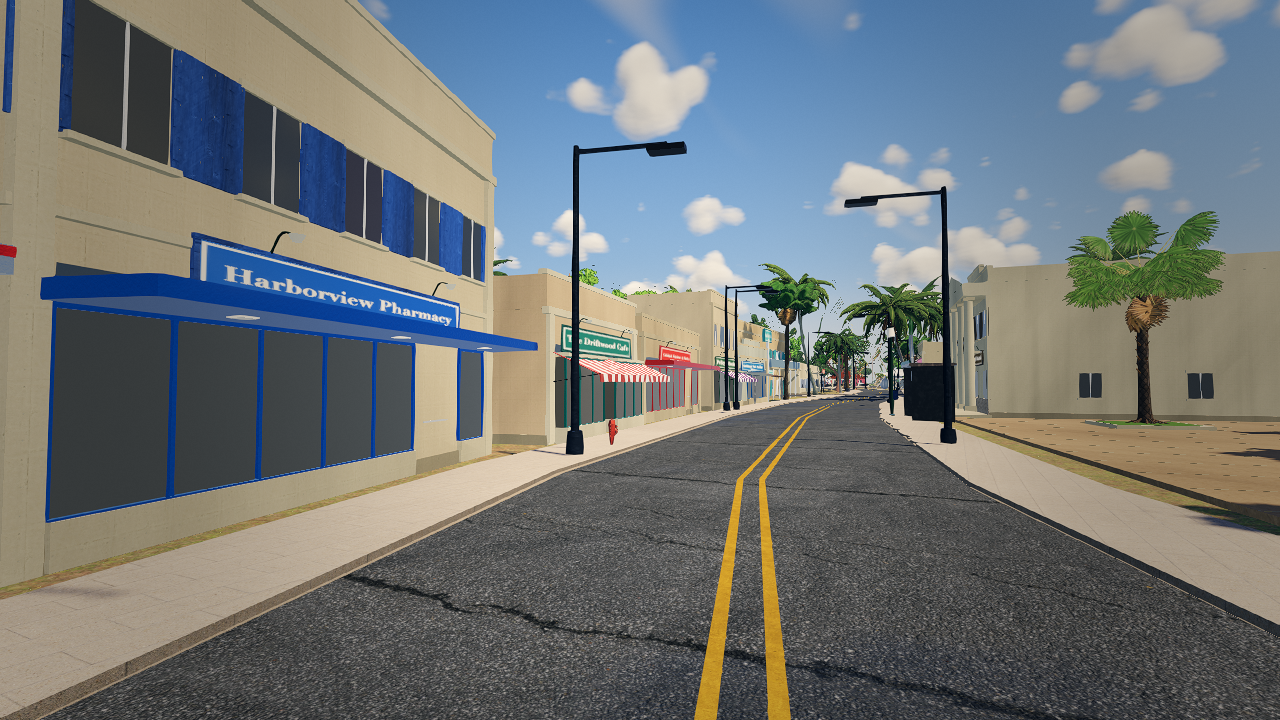
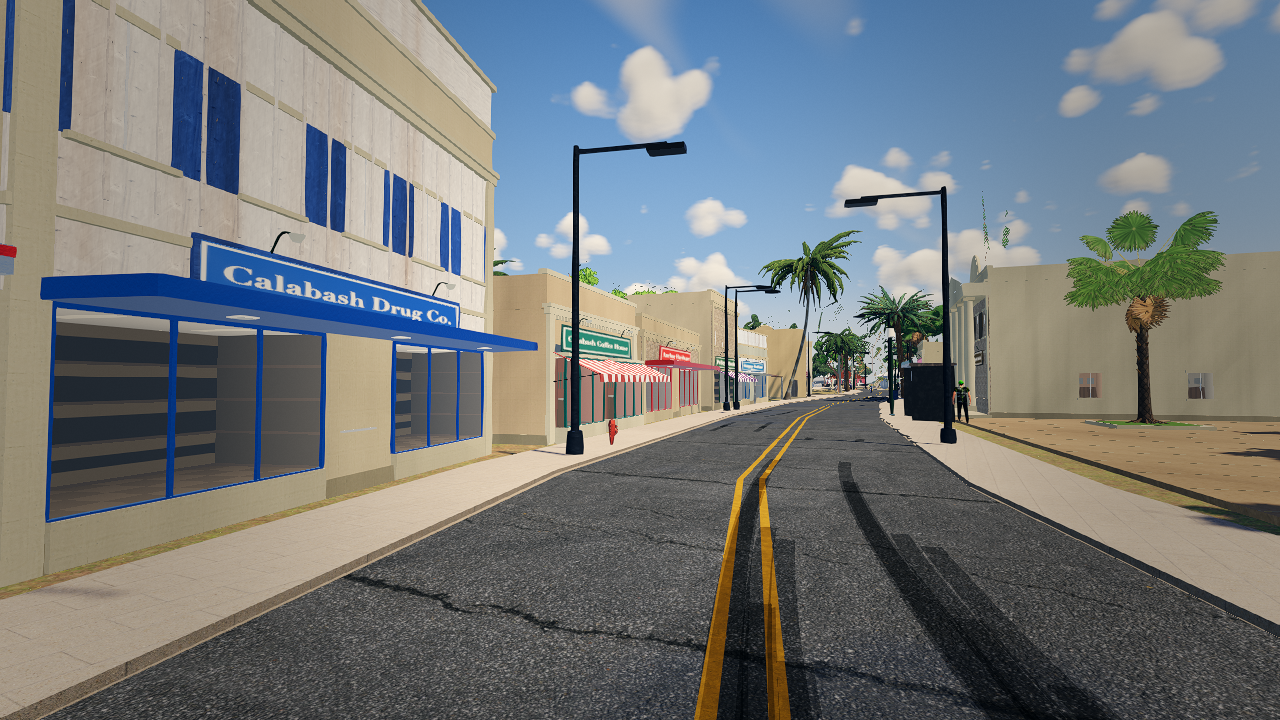
V2.1 towns pass 2: shop windows with interior rooms, rule-based facade variety, street trees in grates, boutique quarter with green, town kit on every fictional-land town (re-lays on new grids)

diff --git a/src/world/setpieces/towns/towns.js b/src/world/setpieces/towns/towns.js
@@ -13,7 +13,7 @@ import { buildShop, KINDS, BODY, hex, signAtlas } from './shops.js';
 
 const RANK = { trunk: 5, primary: 5, secondary: 4, tertiary: 3, unclassified: 2, residential: 2, living_street: 1 };
 const PROGRAM = ['cafe', 'pharmacy', 'hardware', 'bakery', 'diner', 'bank', 'books', 'barber', 'bait', 'florist', 'seafood', 'realty', 'icecream', 'laundry', 'motel', 'church', 'school', 'marina'];
-const WIDTH = { cafe: [8, 10], pharmacy: [11, 13], hardware: [12, 15], bakery: [7, 8.5], diner: [11, 13], bank: [10, 12], books: [7, 8.5], barber: [6, 7], bait: [8, 9.5], florist: [6, 7], seafood: [9, 11], realty: [7, 8], icecream: [6, 7], laundry: [9, 10], motel: [20, 26], church: [10, 11], school: [24, 30], marina: [9, 10] };
+const WIDTH = { boutique: [7, 8.5], gallery: [8, 10], wine: [6.5, 8], jeweler: [6, 7], salon: [6, 7.5], deli: [7.5, 9], toys: [7, 8.5], cafe: [8, 10], pharmacy: [11, 13], hardware: [12, 15], bakery: [7, 8.5], diner: [11, 13], bank: [10, 12], books: [7, 8.5], barber: [6, 7], bait: [8, 9.5], florist: [6, 7], seafood: [9, 11], realty: [7, 8], icecream: [6, 7], laundry: [9, 10], motel: [20, 26], church: [10, 11], school: [24, 30], marina: [9, 10] };
 const DEPTH = { motel: 9, church: 16, school: 14, hardware: 16, diner: 12 };
 const NAME = {
   cafe: ['%T Coffee House', 'Morning Tide Cafe', 'The Driftwood Cafe'], pharmacy: ['%T Drug Co.', 'Harborview Pharmacy'], hardware: ['%T Hardware & Marine', 'Anchor Hardware'],
@@ -21,6 +21,7 @@ const NAME = {
   barber: ['Sharp Tide Barber', 'Old Salt Barber'], bait: ['%T Bait & Tackle', 'Reel Deal Bait'], florist: ['Hibiscus Florist', 'Bloom & Brine'], seafood: ['%T Fish Market', 'Snapper Seafood'],
   realty: ['Seabreeze Realty', '%T Island Realty'], icecream: ['Scoops by the Sea', 'Coconut Creamery'], laundry: ['Suds & Sun Laundry', 'Island Wash'], motel: ['%T Motor Inn', 'Sand Dollar Motel'],
   church: ['%T Chapel', 'Harbor Community Church'], school: ['%T Elementary', '%T Academy'], marina: ['%T Marina Office', 'Harbor Master'],
+  boutique: ['Linen & Salt', 'The Tidal Closet', 'Mangrove Mercantile'], gallery: ['Driftline Gallery', 'Tern Art House'], wine: ['Vine & Brine Cellars', 'Corkscrew Wine Shop'], jeweler: ['Sea Glass Jewelers', 'Pearl & Compass'], salon: ['Saltwater Salon', 'Breeze Hair Studio'], deli: ['Market Street Deli', 'Gulfside Provisions'], toys: ['Sandcastle Toys', 'Kite & Pail'],
 };
 
 export function planTown(town, env) {
@@ -80,46 +81,82 @@ export function planTown(town, env) {
     add(q); add({ x: f.x + nx * (f.hw + sideW * 0.55), z: f.z + nz * (f.hw + sideW * 0.55), ry: q.ry, hw: w / 2, hd: sideW * 0.3, kind: 'awning' });
     return { ...q, w, d, side, f };
   };
-  const MAXS = Math.min(20, seq.length + 4), usedNames = new Set();
-  for (const f of frontage) { if (out.shops.length >= MAXS) break;
-    for (const side of [1, -1]) { const kind = seq[pi % seq.length]; if ((used.has(kind) && pi < seq.length) || (pi >= seq.length && /motel|church|school|marina|bank/.test(kind))) { pi++; continue; }
-      const sh = tryShop(f, side, kind); if (!sh) continue; used.add(kind); pi++;
-      const P = KINDS[kind].palette, k2 = out.shops.length;
-      sh.seed = (Math.round(sh.x * 31 + sh.z * 17) >>> 0) || 1;
-      sh.colors = { body: hex(BODY[(k2 * 7 + 3) % BODY.length]), trim: [0xfaf6ee, 0xf2ede2, 0xe6dccb, 0xfdfaf2][k2 % 4], accent: hex(P[k2 % P.length]), awn: hex(P[(k2 + 1) % P.length]), interior: [0xf0d8a8, 0xe8e0c8, 0xf4e4c0, 0xd8e4e8][k2 % 4] };
-      sh.stories = KINDS[kind].stories[(k2 + (sh.seed & 1)) % KINDS[kind].stories.length];
-      { const names = NAME[kind].map((n) => n.replace('%T', town.short || town.name.split(' ').pop())); sh.name = names.find((n, j) => !usedNames.has(n) && j >= ((sh.seed >>> 3) % names.length)) || names.find((n) => !usedNames.has(n)); if (!sh.name) { out.shops.pop(); continue; } usedNames.add(sh.name); }
-      sh.lit = 0.28 + r() * 0.2; sh.shutters = r() < 0.5; sh.balcony = sh.stories > 1 && r() < 0.4; sh.y = groundAt(sh.x, sh.z);
-      out.shops.push(sh); } }
-  // reserve the shop and plaza footprints for the house generator (map houses under them are not built)
+  // ---- shop rows: main street first (anchors), then the side streets; the quarter street gets the boutiques ----
+  const usedNames = new Set(), short = town.short || town.name.split(' ').pop();
+  const FACADES = ['stucco', 'brick', 'stucco', 'batten', 'stone'], CORN = ['stepped', 'dentil', 'arched', 'stepped', 'dentil'];
+  const lastOnSide = new Map();
+  const finishShop = (sh, kind, quarter) => {
+    const P = KINDS[kind].palette, k2 = out.shops.length;
+    sh.seed = (Math.round(sh.x * 31 + sh.z * 17) >>> 0) || 1;
+    sh.colors = { body: hex(BODY[(k2 * 7 + 3) % BODY.length]), trim: [0xfaf6ee, 0xf2ede2, 0xe6dccb, 0xfdfaf2, 0x2a2a2a][quarter && k2 % 3 === 0 ? 4 : k2 % 4], accent: hex(P[k2 % P.length]), awn: hex(P[(k2 + 1) % P.length]), interior: [0xc8a070, 0xa8b0a8, 0xd0b088, 0x8ea4b4, 0xc08e78, 0xb8a890][(k2 * 3 + (kind.length)) % 6] };   // mid-tone room walls (the glass shows them)
+    sh.stories = KINDS[kind].stories[(k2 + (sh.seed & 1)) % KINDS[kind].stories.length];
+    const names = NAME[kind].map((n) => n.replace('%T', short)), tOff = Math.abs(Math.round(cx + cz)) % 7; sh.name = names.find((n, j) => !usedNames.has(n) && j >= ((tOff + k2) % names.length)) || names.find((n) => !usedNames.has(n)); if (!sh.name) return false; usedNames.add(sh.name);
+    // facade by rule: working shops on the water get board and batten with a false front, the bank stone, the quarter
+    // brick and stone, the rest stucco; a building never shares facade and cornice with its neighbor on the same side
+    let fac = /bait|seafood|marina/.test(kind) ? 'batten' : kind === 'bank' ? 'stone' : quarter ? (k2 % 2 ? 'brick' : 'stucco') : FACADES[(sh.seed >>> 5) % FACADES.length];
+    const sideKey = (sh.f.e?.id ?? 0) + ':' + sh.side, prev = lastOnSide.get(sideKey);
+    if (prev && prev.facade === fac && !/bait|seafood|marina|bank/.test(kind)) fac = FACADES[(FACADES.indexOf(fac) + 1) % FACADES.length];
+    sh.facade = fac; sh.paintedBrick = fac === 'brick' && (sh.seed & 4) !== 0 && !quarter;
+    sh.cornice = fac === 'batten' ? 'false' : CORN[(sh.seed >>> 7) % CORN.length]; if (prev && prev.cornice === sh.cornice && sh.cornice !== 'false') sh.cornice = CORN[(CORN.indexOf(sh.cornice) + 1) % CORN.length];
+    sh.stoneBase = quarter || (fac === 'stucco' && (sh.seed & 8) !== 0);
+    sh.lit = 0.35 + r() * 0.3; sh.shutters = r() < 0.5; sh.balcony = sh.stories > 1 && r() < (quarter ? 0.7 : 0.35); sh.y = groundAt(sh.x, sh.z); sh.quarter = !!quarter;
+    lastOnSide.set(sideKey, sh); out.shops.push(sh); return true;
+  };
+  const placeRow = (list, program, max, quarter) => { let n = 0, pj = 0; const usedK = new Set();
+    for (const f of list) { if (n >= max || pj >= program.length * 2) break;
+      for (const side of [1, -1]) { if (n >= max) break; const kind = program[pj % program.length]; if (usedK.has(kind) && pj < program.length) { pj++; continue; }
+        const sh = tryShop(f, side, kind); if (!sh) continue; pj++; usedK.add(kind); if (finishShop(sh, kind, quarter)) n++; } } return n; };
+  placeRow(frontage, seq.filter((k) => k !== 'marina' || town.coast !== false), Math.min(16, Math.round(R / 14)), false);
+  // side streets: the cross streets at the main-street junctions, first 80 m from the junction
+  const sides = [];
+  for (const n of nodes) { if (Math.hypot(n.x - cx, n.z - cz) > R * 0.85) continue;
+    for (const k of n.edges || []) { const e = rg.edges[k]; if (!e || main.edges.includes(e) || e.bridge || /service|footway|path|track/.test(e.kind || '')) continue;
+      const atA = e.a === n.id, pts = atA ? e.pts : e.pts.slice().reverse(), list = []; let acc = 0; const hw = (e.width || 7) / 2;
+      for (let i = 0; i < pts.length - 1 && acc < 80; i++) { const a = pts[i], b = pts[i + 1], L = Math.hypot(b[0] - a[0], b[1] - a[1]); if (L < 1) continue; const tx = (b[0] - a[0]) / L, tz = (b[1] - a[1]) / L; for (let t = 0; t < L && acc < 80; t += 2, acc += 2) list.push({ x: a[0] + tx * t, z: a[1] + tz * t, tx, tz, hw, e }); }
+      if (list.length > 8) sides.push({ e, node: n, list, d: Math.hypot(n.x - (out.plaza?.x ?? cx), n.z - (out.plaza?.z ?? cz)) }); } }
+  sides.sort((a, b) => a.d - b.d);
+  const QUARTER = ['boutique', 'cafe', 'gallery', 'wine', 'jeweler', 'deli', 'salon', 'toys', 'florist', 'books'];
+  if (sides[0]) { out.quarter = { edge: sides[0].e.id, name: sides[0].e.name || null }; placeRow(sides[0].list.slice(5), QUARTER, 8, true); }
+  for (const sd of sides.slice(1, 4)) placeRow(sd.list.slice(5), ['realty', 'laundry', 'barber', 'salon', 'deli', 'toys', 'icecream'], 2, false);
+  // a small green on the quarter street: lawn, one shade tree, benches, low hedge
+  if (sides[0]) for (const f of sides[0].list.slice(12)) { if (out.green) break; for (const side of [1, -1]) { const nx = -f.tz * side, nz = f.tx * side, o = f.hw + sideW + 0.4 + 8; const q = { x: f.x + nx * o, z: f.z + nz * o, ry: Math.atan2(-nx, -nz), hw: 8, hd: 8, kind: 'green' }; if (!free(q)) continue; out.green = add(q); break; } }
+  // reserve the shop, plaza and green footprints for the house generator (map houses under them are not built)
   for (const q of placed) if (q.kind !== 'awning') out.reserved.push(q);
   // ---- furniture (rules: lamps every 24 m at the curb alternating sides; benches + bins at shop entries; planters between) ----
+  const rows = [frontage, ...sides.slice(0, 4).map((x) => x.list)];
   let lampS = 0;
-  for (const f of frontage) for (const side of [1, -1]) {
+  for (const list of rows) for (const f of list) for (const side of [1, -1]) {
     const nx = -f.tz * side, nz = f.tx * side, ry = Math.atan2(f.tx, f.tz);
     if (nearJunction(f.x, f.z, f.hw + 5)) continue;
     const key = Math.round((f.x * f.tx + f.z * f.tz) / 2);
     if ((key % 12 === 0) && (((key / 12) | 0) % 2 === (side > 0 ? 0 : 1))) { const q = { x: f.x + nx * (f.hw + 0.55), z: f.z + nz * (f.hw + 0.55), ry, hw: 0.3, hd: 0.3, kind: 'lamp' }; if (free(q, { roadPad: 0.1 })) { add(q); out.furniture.push({ ...q, y: groundAt(q.x, q.z) }); lampS++; } }
   }
   for (const sh of out.shops) { if (/church|school|motel/.test(sh.kind)) continue; const f = sh.f, nx = -f.tz * sh.side, nz = f.tx * sh.side, tx = f.tx, tz = f.tz;
-    const pos = (u, o) => ({ x: f.x + nx * (f.hw + o) + tx * u + (sh.x - f.x - nx * (sh.x - f.x) * 0) * 0, z: f.z + nz * (f.hw + o) + tz * u });
     const at = (u, o) => { const base = { x: sh.x - nx * (sh.d / 2 + 0.3 + sideW + 0.15), z: sh.z - nz * (sh.d / 2 + 0.3 + sideW + 0.15) }; return { x: base.x + tx * u + nx * o, z: base.z + tz * u + nz * o }; };
-    void pos;
-    // bench (facing the street) and bin beside it near the curb
     const sideU = (sh.seed & 2 ? 1 : -1) * (sh.w / 2 - 1.2), b = at(sideU, 1.3), bq = { ...b, ry: Math.atan2(-nx, -nz) + Math.PI, hw: 0.85, hd: 0.35, kind: 'bench' };
     if (free(bq, { roadPad: 0.6 })) { add(bq); out.furniture.push({ ...bq, y: groundAt(bq.x, bq.z) }); const bn = at(sideU + 1.25, 1.0), nq = { ...bn, ry: bq.ry, hw: 0.3, hd: 0.3, kind: 'bin' }; if (free(nq, { roadPad: 0.5 })) { add(nq); out.furniture.push({ ...nq, y: groundAt(nq.x, nq.z) }); } }
-    // planter with a shrub at the far end of the frontage
     const p = at(-sideU, 0.9), pq = { ...p, ry: bq.ry, hw: 0.6, hd: 0.6, kind: 'planter' }; if (free(pq, { roadPad: 0.5 })) { add(pq); out.furniture.push({ ...pq, y: groundAt(pq.x, pq.z) }); }
-    // cafe / bakery / icecream: two bistro tables with umbrellas on the sidewalk
-    if (/cafe|bakery|icecream|diner/.test(sh.kind)) for (const u of [-sh.w * 0.25, sh.w * 0.25]) { const t = at(u, sideW * 0.42), tq = { ...t, ry: 0, hw: 0.8, hd: 0.8, kind: 'bistro' }; if (free(tq, { roadPad: 0.6 })) { add(tq); out.furniture.push({ ...tq, y: groundAt(tq.x, tq.z), color: sh.colors.awn }); } }
+    if (/cafe|bakery|icecream|diner|deli|wine/.test(sh.kind)) for (const u of [-sh.w * 0.25, sh.w * 0.25]) { const t = at(u, sideW * 0.42), tq = { ...t, ry: 0, hw: 0.8, hd: 0.8, kind: 'bistro' }; if (free(tq, { roadPad: 0.6 })) { add(tq); out.furniture.push({ ...tq, y: groundAt(tq.x, tq.z), color: sh.colors.awn }); } }
   }
+  // ---- street trees in grates: every 12 m at the curb, never under an awning reach, 5 m from lamps, clear of junctions ----
+  const lampsXZ = out.furniture.filter((f) => f.kind === 'lamp');
+  for (const list of rows) { const quarterRow = list === sides[0]?.list;
+    for (const f of list) for (const side of [1, -1]) { const key = Math.round((f.x * f.tx + f.z * f.tz) / 2); if (key % 6 !== 3) continue; if (nearJunction(f.x, f.z, f.hw + 7)) continue;
+      const nx = -f.tz * side, nz = f.tx * side, x = f.x + nx * (f.hw + 0.95), z = f.z + nz * (f.hw + 0.95);
+      if (lampsXZ.some((l) => Math.hypot(l.x - x, l.z - z) < 5)) continue;
+      const q = { x, z, ry: Math.atan2(f.tx, f.tz), hw: 0.7, hd: 0.7, kind: 'grate' }; if (!free(q, { roadPad: 0.15 })) continue;
+      // crown clearance: no shop facade within 2.2 m of the trunk
+      if (out.shops.some((sh) => { const dx = x - sh.x, dz = z - sh.z, c = Math.cos(sh.ry), sn = Math.sin(sh.ry), u = Math.abs(dx * c - dz * sn), v = Math.abs(dx * sn + dz * c); return u < sh.w / 2 + 2.2 && v < sh.d / 2 + 2.2; })) continue;
+      add(q); const y = groundAt(x, z); out.furniture.push({ ...q, y });
+      out.trees.push({ kind: quarterRow ? 'gumbo' : (key / 6 | 0) % 2 ? 'sabal' : 'queen', x, z, y: y + 0.1, s: quarterRow ? 0.55 : 0.75, small: false }); } }
   // plaza furniture: fountain in the middle, four shade trees, benches around, cafe tables on the street side
   if (out.plaza) { const P = out.plaza, c = Math.cos(P.ry), sn = Math.sin(P.ry), at = (u, v) => ({ x: P.x + c * u + sn * v, z: P.z - sn * u + c * v });
     out.plazaY = groundAt(P.x, P.z);
     for (const [u, v] of [[-8.5, -7.5], [8.5, -7.5], [-8.5, 6.5], [8.5, 6.5]]) { const t = at(u, v); out.trees.push({ kind: (u > 0) === (v > 0) ? 'royal' : 'sabal', x: t.x, z: t.z, y: out.plazaY + 0.25, s: 0.9 }); }   // narrow crowns: clear of the shops and the fountain
     for (const [u, v, a] of [[0, -6.5, 0], [0, 6.0, Math.PI], [-6.5, 0, Math.PI / 2], [6.5, 0, -Math.PI / 2]]) { const t = at(u, v); out.furniture.push({ ...t, ry: P.ry + a, kind: 'bench', y: out.plazaY }); }
   }
-  out.counts = { shops: out.shops.length, lamps: lampS, furniture: out.furniture.length, crossings: out.crossings.length, walks: out.walks.length };
+  if (out.green) { const G = out.green, c = Math.cos(G.ry), sn = Math.sin(G.ry), at = (u, v) => ({ x: G.x + c * u + sn * v, z: G.z - sn * u + c * v }); out.greenY = groundAt(G.x, G.z); out.trees.push({ kind: 'gumbo', ...at(0, 0), y: out.greenY + 0.1, s: 0.8 }); for (const [u, v, a] of [[0, -4.5, 0], [0, 4.5, Math.PI], [-4.5, 0, Math.PI / 2], [4.5, 0, -Math.PI / 2]]) out.furniture.push({ ...at(u, v), ry: G.ry + a, kind: 'bench', y: out.greenY }); }
+  out.counts = { shops: out.shops.length, quarter: out.shops.filter((x) => x.quarter).length, lamps: lampS, trees: out.trees.length, furniture: out.furniture.length, crossings: out.crossings.length, walks: out.walks.length, green: !!out.green, sides: sides.length };
   return out;
 }
 
@@ -140,7 +177,8 @@ export function buildStreetscape(hk, plan, ox, oz, lod = 0) {
       cols.push({ shape: 'cyl', p: [x, y + 2.3, z], r: 0.1, hh: 2.3 }); lamps.push({ pos: [x, y + 4.4, z], color: 0xffd9a8, intensity: 30, range: 12 }); }
     else if (f.kind === 'bench') { for (const lx of [-0.75, 0.75]) B.box(MET, 0.06, 0.45, 0.5, m(lx, 0.22, 0), { color: 0x1e2a22 }); for (let k = 0; k < 4; k++) B.box(WOOD, 1.7, 0.035, 0.09, m(0, 0.45, -0.18 + k * 0.11), { color: 0x9a6a3a, wear: 0.3 }); for (let k = 0; k < 3; k++) B.box(WOOD, 1.7, 0.09, 0.035, m(0, 0.62 + k * 0.12, -0.26, -0.15), { color: 0x9a6a3a, wear: 0.3 }); cols.push({ shape: 'box', p: [x, y + 0.4, z], h: [0.85, 0.4, 0.3], ry: f.ry }); }
     else if (f.kind === 'bin') { B.cyl(MET, 0.26, 0.24, 0.85, m(0, 0.43, 0), { seg: L0 ? 14 : 8, color: 0x1e3a2a }); if (L0) for (let k = 0; k < 10; k++) B.box(MET, 0.03, 0.75, 0.02, m(Math.cos(k * 0.63) * 0.265, 0.43, Math.sin(k * 0.63) * 0.265, 0, -k * 0.63), { color: 0x1e3a2a }); B.cyl(MET, 0.28, 0.28, 0.05, m(0, 0.87, 0), { seg: 10, color: 0x1a2a20 }); cols.push({ shape: 'cyl', p: [x, y + 0.45, z], r: 0.27, hh: 0.45 }); }
-    else if (f.kind === 'planter') { B.box(STU, 1.2, 0.6, 1.2, m(0, 0.3, 0), { color: 0xe8e0d0, wear: 0.3 }); B.box(STU, 1.32, 0.06, 1.32, m(0, 0.62, 0), { color: 0xd8d0c0 }); B.box(mat.matte(), 1.05, 0.04, 1.05, m(0, 0.6, 0), { color: 0x3a2a1c }); cols.push({ shape: 'box', p: [x, y + 0.3, z], h: [0.6, 0.3, 0.6], ry: f.ry }); plan.trees.push({ kind: ['ixora', 'croton', 'hibiscus'][Math.abs(Math.round(f.x + f.z)) % 3], x: f.x, z: f.z, y: y + 0.6, s: 0.55, small: true }); }
+    else if (f.kind === 'planter') { B.box(STU, 1.2, 0.6, 1.2, m(0, 0.3, 0), { color: 0xe8e0d0, wear: 0.3 }); B.box(STU, 1.32, 0.06, 1.32, m(0, 0.62, 0), { color: 0xd8d0c0 }); B.box(mat.matte(), 1.05, 0.04, 1.05, m(0, 0.6, 0), { color: 0x3a2a1c }); cols.push({ shape: 'box', p: [x, y + 0.3, z], h: [0.6, 0.3, 0.6], ry: f.ry }); if (L0) plan.trees.push({ kind: ['ixora', 'croton', 'hibiscus'][Math.abs(Math.round(f.x + f.z)) % 3], x: f.x, z: f.z, y: y + 0.6, s: 0.55, small: true }); }
+    else if (f.kind === 'grate') { B.box(MET, 1.3, 0.04, 1.3, m(0, 0.13, 0), { color: 0x2a2a28 }); if (L0) for (let k = -2; k <= 2; k++) { B.box(MET, 1.3, 0.05, 0.04, m(0, 0.14, k * 0.22), { color: 0x1a1a18 }); B.box(MET, 0.04, 0.05, 1.3, m(k * 0.22, 0.14, 0), { color: 0x1a1a18 }); } B.box(mat.matte(), 1.2, 0.02, 1.2, m(0, 0.12, 0), { color: 0x3a2a1c }); cols.push({ shape: 'cyl', p: [x, y + 1.5, z], r: 0.3, hh: 1.5 }); }
     else if (f.kind === 'bistro') { B.cyl(MET, 0.35, 0.35, 0.03, m(0, 0.74, 0), { seg: 14, color: 0xe8e8e4 }); B.cyl(MET, 0.03, 0.03, 2.3, m(0, 1.15, 0), { seg: 6, color: 0xd8d8d8 }); B.cyl(PLAST, 0.02, 1.1, 0.35, m(0, 2.25, 0), { seg: 8, color: f.color ?? 0x2f6b5a });
       for (const a of [0.4, 2.5, 4.4]) { const cx2 = Math.cos(a) * 0.62, cz2 = Math.sin(a) * 0.62; B.box(MET, 0.4, 0.03, 0.4, m(cx2, 0.45, cz2, 0, -a), { color: 0x2a2a2a }); B.box(MET, 0.4, 0.4, 0.03, m(cx2 + Math.cos(a) * 0.2, 0.65, cz2 + Math.sin(a) * 0.2, 0, -a + Math.PI / 2), { color: 0x2a2a2a }); } cols.push({ shape: 'cyl', p: [x, y + 0.4, z], r: 0.4, hh: 0.4 }); }
   }
@@ -154,6 +192,11 @@ export function buildStreetscape(hk, plan, ox, oz, lod = 0) {
     if (L0) for (let k = 0; k < 12; k++) { const a = k * 0.5236; B.cyl(WATER, 0.03, 0.06, 0.55, M(x, y, z, 0, Pz.ry).multiply(M(Math.cos(a) * 1.25, 1.75, Math.sin(a) * 1.25, Math.sin(a) * 0.5, 0, -Math.cos(a) * 0.5)), { seg: 5, color: 0xd8f0f4 }); }
     cols.push({ shape: 'cyl', p: [x, y + 0.5, z], r: 3.3, hh: 0.5 });
     for (const t of plan.trees) if (!t.small) { const [tx, tz] = P(t.x, t.z); cols.push({ shape: 'cyl', p: [tx, y + 1.5, tz], r: 0.35, hh: 1.5 }); }
+  }
+  // the quarter's small green: lawn, clipped hedge border with gaps, paths crossing
+  if (plan.green) { const Gq = plan.green, [x, z] = P(Gq.x, Gq.z), y = plan.greenY ?? 0, m = (lx, ly, lz) => M(x, y, z, 0, Gq.ry).multiply(M(lx, ly, lz));
+    B.box(mat.matte(), 15.6, 0.08, 15.6, m(0, 0.03, 0), { color: 0x5a8a3a }); B.box(PAV, 1.6, 0.1, 15.6, m(0, 0.04, 0), { color: 0xe2d6c0 }); B.box(PAV, 15.6, 0.1, 1.6, m(0, 0.04, 0), { color: 0xe2d6c0 });
+    for (const [u, v, sx, sz] of [[-4.6, -7.6, 6, 0.6], [4.6, -7.6, 6, 0.6], [-4.6, 7.6, 6, 0.6], [4.6, 7.6, 6, 0.6], [-7.6, -4.6, 0.6, 6], [-7.6, 4.6, 0.6, 6], [7.6, -4.6, 0.6, 6], [7.6, 4.6, 0.6, 6]]) { if (L0) for (let t = -0.5; t <= 0.5; t += 1 / Math.max(1, Math.round(Math.max(sx, sz) / 1.2))) { const lu = u + (sx > 1 ? t * sx : 0), lv = v + (sz > 1 ? t * sz : 0); plan.trees.push({ kind: 'hedge', x: Gq.x + Math.cos(Gq.ry) * lu + Math.sin(Gq.ry) * lv, z: Gq.z - Math.sin(Gq.ry) * lu + Math.cos(Gq.ry) * lv, y: y + 0.05, s: 0.6, small: true }); } cols.push({ shape: 'box', p: [x + Math.cos(Gq.ry) * u + Math.sin(Gq.ry) * v, y + 0.4, z - Math.sin(Gq.ry) * u + Math.cos(Gq.ry) * v], h: [sx / 2, 0.4, sz / 2], ry: Gq.ry }); }
   }
   return { batch: B, colliders: cols, lamps };
 }

diff --git a/src/world/setpieces/towns/shops.js b/src/world/setpieces/towns/shops.js
@@ -24,7 +24,16 @@ export const KINDS = {
   motel: { awn: 'none', front: 'motel', stories: [2], palette: ['#2f8f8a', '#e07a2a'] },
   school: { awn: 'none', front: 'school', stories: [1], palette: ['#b85a38'] },
   marina: { awn: 'tin', front: 'shack', stories: [1], palette: ['#2a5a8a'] },
+  boutique: { awn: 'flat', front: 'bay', stories: [2], palette: ['#1e1e1e', '#6a2a3a', '#2a4a3a'] },
+  gallery: { awn: 'none', front: 'wide', stories: [1, 2], palette: ['#2a2a2a', '#f2efe6'] },
+  wine: { awn: 'striped', front: 'narrow', stories: [2], palette: ['#5a1e2a', '#2a3a2a'] },
+  jeweler: { awn: 'flat', front: 'narrow', stories: [2], palette: ['#1e2e3e', '#7a6a3a'] },
+  salon: { awn: 'striped', front: 'narrow', stories: [1, 2], palette: ['#d28aa0', '#2a6a6a'] },
+  deli: { awn: 'striped', front: 'bay', stories: [1], palette: ['#2a5a2a', '#b84a2a'] },
+  toys: { awn: 'striped', front: 'bay', stories: [1], palette: ['#e0a020', '#2a7ac8'] },
 };
+// room behind the shop glass (interior mapping kind, see houses/materials.js shopGlass)
+const ROOM = { hardware: 1, pharmacy: 1, books: 1, bait: 1, seafood: 1, wine: 1, toys: 1, cafe: 2, bakery: 2, icecream: 2, deli: 2, diner: 5, bank: 4, realty: 4, gallery: 0, florist: 3, boutique: 3, jeweler: 3, salon: 0, barber: 0, laundry: 0, motel: 0, school: 0, marina: 1 };
 const BODY = ['#efe4cf', '#f3e6d6', '#e7d3b5', '#f2dcc8', '#dfe6dc', '#f4efe2', '#e9d8c4', '#d8e2e6', '#f0d9c0', '#e6e0d0', '#f5e9d9'];
 const hex = (s) => parseInt(s.slice(1), 16);
 
@@ -37,19 +46,35 @@ export function buildShop(hk, s, lod = 0) {
   const body = s.colors.body, trim = s.colors.trim, acc = s.colors.accent, awnC = s.colors.awn;
   const box = (m, sx, sy, sz, x, y, z, o = {}, ry = 0, rx = 0, rz = 0) => B.box(m, sx, sy, sz, M(x, y, z, rx, ry, rz), o);
   const vary = (c, a = 0.04) => kit.vary(c, r, a);
-  const front = K.front;
+  const front = K.front, SG = mat.shopGlass(), room = ROOM[s.kind] ?? 0, rw = (lit) => room + Math.min(0.98, Math.max(0, lit));
+  // facade material by rule (set by the town: quarter, kind, neighbors): stucco, painted brick or raw brick, board and batten, stone
+  const FAC = s.facade === 'brick' ? mat.brick() : s.facade === 'batten' ? PAINT : s.facade === 'stone' ? mat.stoneVeneer() : STU;
+  const facC = s.facade === 'brick' ? (s.paintedBrick ? body : 0xffffff) : s.facade === 'stone' ? 0xf0e8d8 : body;
 
   // ---------- shell ----------
   if (front === 'church') return church();
   box(STU, w, h, d, 0, h / 2, 0, { color: body, wear: [wear + 0.25, wear] });
+  // facade skin on the street face above the storefront (the ground floor is glass, bulkheads and pilasters), and on the
+  // ground floor only for the civic fronts that have no shop window
+  const skin0 = /columns|motel|school/.test(K.front) ? 0.35 : 2.78;
+  if (FAC !== STU) box(FAC, w + 0.04, h - skin0, 0.05, 0, (h + skin0) / 2, z1 + 0.02, { color: facC, wear: wear, grain: 1 });
+  if (s.facade === 'batten' && L1 && h > 4.4) for (let x = x0 + 0.3; x < x1 - 0.1; x += 0.6) box(PAINT, 0.06, h - 3.9, 0.03, x, (h + 3.9) / 2, z1 + 0.06, { color: kit.mul(body, 0.92), wear: wear + 0.1, grain: 1 });
+  if (s.stoneBase && L1) box(mat.stoneVeneer(), w + 0.1, 0.9, 0.08, 0, 0.45, z1 + 0.05, { color: 0xe8e0d0 });
   box(CONC, w + 0.12, 0.35, d + 0.12, 0, 0.12, 0, { color: 0xbab3a6, wear: 0.4 });                       // base / water table
   cols.push({ shape: 'box', p: [0, h / 2, 0], h: [w / 2, h / 2, d / 2], ry: 0 });
   // parapet, cornice, coping (stepped center on some)
   const par = 0.7 + r() * 0.5;
   for (const [sx, sz, x, z] of [[w + 0.1, 0.22, 0, z1 - 0.06], [w + 0.1, 0.22, 0, z0 + 0.06], [0.22, d, x0 + 0.06, 0], [0.22, d, x1 - 0.06, 0]]) box(STU, sx, par, sz, x, h + par / 2, z, { color: body, wear: 0.3 });
   box(STU, w + 0.34, 0.16, 0.3, 0, h + par + 0.06, z1 - 0.05, { color: trim, wear: 0.25 });
-  if (L1) box(STU, w + 0.26, 0.22, 0.24, 0, h - 0.05, z1 + 0.04, { color: trim, wear: 0.25 });          // cornice band
-  if (r() < 0.55 && w > 7) { const sw = w * (0.3 + r() * 0.2); box(STU, sw, 0.6, 0.22, 0, h + par + 0.3, z1 - 0.06, { color: body, wear: 0.3 }); box(STU, sw + 0.2, 0.12, 0.3, 0, h + par + 0.62, z1 - 0.05, { color: trim, wear: 0.25 }); }
+  // cornice by style: stepped (three projecting courses), dentil (block row under a crown), arched center, false front
+  const cor = s.cornice || 'stepped';
+  if (L1) { box(STU, w + 0.22, 0.2, 0.2, 0, h - 0.06, z1 + 0.06, { color: trim, wear: 0.25 }); box(STU, w + 0.32, 0.12, 0.3, 0, h + 0.1, z1 + 0.08, { color: trim, wear: 0.25 }); }
+  if (cor === 'stepped' && L1) box(STU, w + 0.12, 0.1, 0.12, 0, h - 0.26, z1 + 0.03, { color: trim, wear: 0.25 });
+  if (cor === 'dentil' && L0) for (let x = x0 + 0.15; x < x1 - 0.1; x += 0.24) box(STU, 0.1, 0.12, 0.1, x, h - 0.22, z1 + 0.07, { color: trim });
+  if (cor === 'arched' && L1 && w > 6) { const R = Math.min(w * 0.22, 1.6), sh = new THREE.Shape(); sh.moveTo(-R - 0.3, 0); sh.lineTo(-R, 0); sh.absarc(0, 0, R, PI, 0, true); sh.lineTo(R + 0.3, 0); sh.lineTo(R + 0.3, -0.01); sh.lineTo(-R - 0.3, -0.01);
+    B.geo(STU, new THREE.ExtrudeGeometry(sh, { depth: 0.22, bevelEnabled: false, curveSegments: L0 ? 12 : 6 }), M(0, h + par, z1 - 0.17), { color: body, wear: 0.3, uvMul: [0.7, 0.7] }); B.geo(STU, new THREE.TorusGeometry(R + 0.05, 0.08, 6, L0 ? 18 : 8, PI), M(0, h + par, z1 - 0.04), { color: trim }); }
+  if (cor === 'false' && L1) { const fh = 1.3; box(FAC, w + 0.04, fh, 0.12, 0, h + par + fh / 2, z1 - 0.04, { color: facC, wear }); box(STU, w + 0.3, 0.14, 0.26, 0, h + par + fh + 0.07, z1 - 0.02, { color: trim }); }
+  if (cor === 'stepped' && w > 7 && L1) { const sw = w * 0.4; box(STU, sw, 0.6, 0.22, 0, h + par + 0.3, z1 - 0.06, { color: body, wear: 0.3 }); box(STU, sw + 0.2, 0.12, 0.3, 0, h + par + 0.62, z1 - 0.05, { color: trim, wear: 0.25 }); }
   box(CONC, w - 0.3, 0.06, d - 0.3, 0, h + 0.03, 0, { color: 0x8a867e, wear: 0.6 });                     // roof deck
   if (L1) { const n = 1 + ((w * d) / 90 | 0); for (let k = 0; k < Math.min(3, n); k++) { const ax = x0 + 1.2 + r() * (w - 2.4), az = z0 + 1.2 + r() * (d * 0.5); box(MET, 1.0, 0.8, 1.2, ax, h + 0.45, az, { color: 0xc8c6bc, wear: 0.4 }); if (L0) B.cyl(MET, 0.35, 0.35, 0.02, M(ax, h + 0.86, az), { seg: 12, color: 0x2a2a2a }); } }
   // pilasters at the front corners
@@ -84,7 +109,7 @@ export function buildShop(hk, s, lod = 0) {
   }
   function win(x, y0, z, ww, wh, ry, k) {   // punched window: frame, sill, glass (lit at night), on a side or upper wall
     const lit = ((s.seed >> (k & 7)) & 1) && r() < 0.8 ? 0.4 + r() * 0.6 : 0, cur = [0xe8dcc0, 0xf2eee4, 0xd8c8a0, 0xc8d8e0, 0xe8c8b0][(r() * 5) | 0];
-    B.box(WIN, ww, wh, 0.03, M(x, y0 + wh / 2, z, 0, ry), { color: cur, wear: lit });
+    B.box(SG, ww, wh, 0.03, M(x, y0 + wh / 2, z, 0, ry), { color: cur, wear: rw(lit * 0.8) });
     if (L1) { B.box(STU, ww + 0.2, 0.08, 0.14, M(x, y0 - 0.04, z, 0, ry).multiply(M(0, 0, 0.05)), { color: trim, wear: 0.3 }); B.box(STU, ww + 0.16, 0.12, 0.06, M(x, y0 + wh + 0.06, z, 0, ry).multiply(M(0, 0, 0.03)), { color: trim, wear: 0.3 }); }
     if (L0) B.box(MET, 0.03, wh, 0.04, M(x, y0 + wh / 2, z, 0, ry).multiply(M(0, 0, 0.02)), { color: 0xf0f0ec });
   }
@@ -97,9 +122,9 @@ export function buildShop(hk, s, lod = 0) {
     for (const [a, b] of [[xa, doorU - doorW / 2 - 0.12], [doorU + doorW / 2 + 0.12, xb]]) {
       if (b - a < 0.4) continue; const cx = (a + b) / 2, ww = b - a;
       box(STU, ww, kick, 0.2 + bay, cx, kick / 2, zf + bay / 2, { color: kit.mul(trim, 0.92), wear: 0.35 });
-      B.box(WIN, ww - 0.08, gy1 - gy0, 0.03, M(cx, (gy0 + gy1) / 2, zf + bay - 0.02), { color: s.colors.interior, wear: s.lit });
+      B.box(SG, ww - 0.08, gy1 - gy0, 0.03, M(cx, (gy0 + gy1) / 2, zf + bay - 0.02), { color: s.colors.interior, wear: rw(s.lit) });
       if (L1) { const nm = Math.max(1, Math.round(ww / 1.3)); for (let k = 0; k <= nm; k++) box(MET, 0.06, gy1 - gy0, 0.08, a + (ww * k) / nm, (gy0 + gy1) / 2, zf + bay, { color: acc, wear: 0.2 }); box(MET, ww, 0.07, 0.09, cx, gy1, zf + bay, { color: acc }); box(MET, ww, 0.05, 0.12, cx, gy0, zf + bay, { color: acc }); }
-      if (bay && L1) { box(STU, ww + 0.1, 0.1, bay + 0.25, cx, gy1 + 0.1, zf + bay / 2, { color: trim, wear: 0.25 }); for (const ex of [a, b]) B.box(WIN, 0.03, gy1 - gy0, bay, M(ex, (gy0 + gy1) / 2, zf + bay / 2), { color: s.colors.interior, wear: s.lit }); }
+      if (bay && L1) { box(STU, ww + 0.1, 0.1, bay + 0.25, cx, gy1 + 0.1, zf + bay / 2, { color: trim, wear: 0.25 }); for (const ex of [a, b]) B.box(SG, 0.03, gy1 - gy0, bay, M(ex, (gy0 + gy1) / 2, zf + bay / 2), { color: s.colors.interior, wear: rw(s.lit) }); }
       // transom band above the display with small lights
       if (L1) B.box(WIN, ww - 0.1, 0.32, 0.03, M(cx, gy1 + 0.27, zf), { color: 0xd8e4e8, wear: s.lit * 0.6 });
       if (L0) { // window displays behind the glass: shelves and goods by kind
@@ -109,14 +134,14 @@ export function buildShop(hk, s, lod = 0) {
     }
     // door: recessed entry with side glass, glass door with push bar, transom
     const dz = zf - recess;
-    if (recess > 0.2) { box(CONC, doorW + 0.3, 0.04, recess, doorU, 0.02, zf - recess / 2, { color: 0x9a9690 }); for (const sx of [-1, 1]) B.box(WIN, 0.03, gy1 - 0.05, recess, M(doorU + sx * (doorW / 2 + 0.12), (gy1 + 0.05) / 2, zf - recess / 2), { color: s.colors.interior, wear: s.lit }); }
-    B.box(WIN, doorW - 0.1, 2.1, 0.03, M(doorU, 1.08, dz), { color: s.colors.interior, wear: s.lit });
+    if (recess > 0.2) { box(CONC, doorW + 0.3, 0.04, recess, doorU, 0.02, zf - recess / 2, { color: 0x9a9690 }); for (const sx of [-1, 1]) B.box(SG, 0.03, gy1 - 0.05, recess, M(doorU + sx * (doorW / 2 + 0.12), (gy1 + 0.05) / 2, zf - recess / 2), { color: s.colors.interior, wear: rw(s.lit) }); }
+    B.box(SG, doorW - 0.1, 2.1, 0.03, M(doorU, 1.08, dz), { color: s.colors.interior, wear: rw(s.lit) });
     if (L1) { for (const sx of [-1, 1]) box(MET, 0.08, 2.2, 0.08, doorU + sx * doorW / 2, 1.1, dz, { color: acc }); box(MET, doorW, 0.1, 0.08, doorU, 2.2, dz, { color: acc }); }
     if (L0) { box(MET, doorW * 0.6, 0.04, 0.06, doorU, 1.05, dz + 0.04, { color: 0xc8c8c4 }); box(PLAST, 0.5, 0.25, 0.01, doorU + doorW * 0.2, 1.55, dz + 0.03, { color: 0xf2f0ea }); }
     lamps.push({ pos: [doorU, 2.6, z1 + 0.8], color: 0xffd7a0, intensity: 16, range: 6 });
     cols.length = 0; cols.push({ shape: 'box', p: [0, h / 2, -recess / 2 + 0.02], h: [w / 2, h / 2, d / 2 - recess / 2], ry: 0 });
     // shack fronts (bait / marina / seafood): board and batten skin over the stucco and a tin awning
-    if (front === 'shack' && L0) for (let x = x0 + 0.15; x < x1; x += 0.3) if (x < doorU - doorW / 2 - 0.1 || x > doorU + doorW / 2 + 0.1) box(PAINT, 0.05, signY0 - 0.3, 0.02, x, (signY0 - 0.3) / 2 + 0.3, zf + 0.21, { color: kit.mul(body, 0.9), wear: 0.5 });
+    // shack fronts get their board and batten from the facade skin above the windows (never over the glass)
     // cafe tables, sidewalk sale racks and plants are placed by the town (they sit on the sidewalk)
   }
   function awning() {
@@ -141,7 +166,7 @@ export function buildShop(hk, s, lod = 0) {
     box(STU, w + 0.2, 0.7, 1.4, 0, h - 0.35, z1 + 0.6, { color: 0xf2efe6, wear: 0.2 });
     if (L1) { const tri = new THREE.Shape(); tri.moveTo(-w / 2 - 0.1, 0); tri.lineTo(w / 2 + 0.1, 0); tri.lineTo(0, 1.2); tri.lineTo(-w / 2 - 0.1, 0); B.geo(STU, new THREE.ShapeGeometry(tri), M(0, h, z1 + 1.31), { color: 0xf2efe6, wear: 0.2, uvMul: [0.7, 0.7] }); }
     box(CONC, w + 0.6, 0.15, 2.0, 0, 0.08, z1 + 1.0, { color: 0xd8d2c4 });
-    B.box(WIN, 1.6, 2.5, 0.03, M(0, 1.35, z1 + 0.02), { color: 0xe8d8b0, wear: s.lit }); for (const x of [-w / 3, w / 3]) B.box(WIN, 1.1, 2.0, 0.03, M(x, 1.6, z1 + 0.02), { color: 0xe8d8b0, wear: s.lit * 0.7 });
+    B.box(SG, 1.6, 2.5, 0.03, M(0, 1.35, z1 + 0.02), { color: 0xe8d8b0, wear: rw(s.lit) }); for (const x of [-w / 3, w / 3]) B.box(SG, 1.1, 2.0, 0.03, M(x, 1.6, z1 + 0.02), { color: 0xe8d8b0, wear: rw(s.lit * 0.7) });
   }
   function motelFront() { // two-story walkway with rail, doors and windows per room, office at one end with a tall sign on a pole
     const rooms = Math.max(3, Math.floor(w / 3.4));

diff --git a/src/world/setpieces/houses/materials.js b/src/world/setpieces/houses/materials.js
@@ -109,5 +109,66 @@ export function createHouseKit(THREE, opts = {}) {
   mat.stucco = () => mat.pbr('concrete_wall_008', { rep: 1.4, grunge: true, gain: 2.25 });
   mat.stoneVeneer = () => mat.pbr('coral_stone_wall', { rep: 1.2, grunge: true, gain: 1.6 });
   mat.pavers = () => mat.pbr('scuffed_cement', { rep: 1.6, grunge: true, gain: 1.9 });
+  // ---------- shop glass with an interior (cheap interior mapping) ----------
+  // Each glass quad (uv 0..1 across the pane) opens onto a box room behind it: ray from the eye through the pane, hit the
+  // back wall, side walls, floor or ceiling, shade each procedurally. aWear = kind + lit (integer part = room kind,
+  // fraction = how lit). Kinds: 0 plain room, 1 shelves with goods, 2 cafe (counter, tables, pendant lamps), 3 boutique
+  // racks, 4 office / bank (desks, wood panelling), 5 diner (counter and red stools). Vertex color = the room's wall tint.
+  // Day: the room reads at a soft level through glossy glass (sky reflections from the environment); night: warm light.
+  const white1 = new THREE.DataTexture(new Uint8Array([255, 255, 255, 255]), 1, 1); white1.needsUpdate = true;
+  const shopGlass = new THREE.MeshStandardMaterial({ vertexColors: true, roughness: 0.16, metalness: 0.0, envMapIntensity: 0.32, map: white1, color: 0xffffff });   // soft sky sheen: the room must read through it by day
+  shopGlass.name = 'house:shopGlass'; shopGlass.userData.uvScale = 0;
+  shopGlass.onBeforeCompile = (sh) => {
+    sh.uniforms.uNight = kit.uNight;
+    sh.vertexShader = sh.vertexShader.replace('#include <common>', '#include <common>\nattribute float aWear;\nvarying float vRoom;\nvarying vec3 vRoomW;\n')
+      .replace('#include <begin_vertex>', '#include <begin_vertex>\nvRoom = aWear;\nvRoomW = ( modelMatrix * vec4( position, 1.0 ) ).xyz;\n');
+    sh.fragmentShader = sh.fragmentShader.replace('#include <common>', `#include <common>
+varying float vRoom; varying vec3 vRoomW; uniform float uNight;
+float rh( vec2 p ) { return fract( sin( dot( p, vec2( 127.1, 311.7 ) ) ) * 43758.5453 ); }
+vec3 roomColor( vec2 uv, vec3 V, vec3 N, vec3 dpx, vec3 dpy, vec2 dux, vec2 duy, vec3 tint, float kind, float seed ) {
+  vec3 p1 = cross( N, dpx ), p2 = cross( dpy, N );
+  vec3 T = p2 * dux.x + p1 * duy.x, B = p2 * dux.y + p1 * duy.y;
+  float im = inversesqrt( max( dot( T, T ), dot( B, B ) ) + 1e-12 ); T *= im; B *= im;
+  vec3 d = vec3( dot( V, T ), dot( V, B ), -dot( V, N ) ); d.z = max( d.z, 0.05 );
+  float depth = 0.9; vec3 o = vec3( uv, 0.0 );
+  float tx = d.x > 0.0 ? ( 1.0 - o.x ) / d.x : -o.x / min( d.x, -1e-4 );
+  float ty = d.y > 0.0 ? ( 1.0 - o.y ) / d.y : -o.y / min( d.y, -1e-4 );
+  float tz = depth / d.z; float t = min( tz, min( tx, ty ) ); vec3 h = o + d * t;
+  vec3 wall = tint, floorC = vec3( 0.32, 0.25, 0.18 ), ceilC = vec3( 0.92, 0.9, 0.86 ), c;
+  if ( t == tz ) { // back wall with the room's furniture
+    c = wall;
+    if ( kind < 0.5 ) { c *= 0.9 + 0.1 * step( 0.5, fract( h.x * 3.0 ) ); }
+    else if ( kind < 1.5 ) { float row = floor( h.y * 4.0 ), f = fract( h.y * 4.0 ); vec2 cell = vec2( floor( h.x * 9.0 ), row ); vec3 g = vec3( rh( cell + seed ), rh( cell + seed + 7.0 ), rh( cell + seed + 13.0 ) ); c = f < 0.08 ? vec3( 0.25, 0.2, 0.16 ) : ( f < 0.7 && h.y < 0.92 && h.y > 0.1 ? mix( g * 0.9 + 0.1, wall, step( 0.75, rh( cell + 3.0 + seed ) ) ) : wall * 0.75 ); }
+    else if ( kind < 2.5 ) { c = h.y < 0.38 ? vec3( 0.36, 0.24, 0.15 ) * ( 0.9 + 0.1 * step( 0.5, fract( h.x * 12.0 ) ) ) : ( h.y < 0.42 ? vec3( 0.75, 0.72, 0.66 ) : wall ); if ( h.y > 0.55 && h.y < 0.8 ) { vec2 cell = vec2( floor( h.x * 6.0 ), 0.0 ); c = mix( c, vec3( rh( cell + seed ), 0.4, 0.3 ), 0.5 * step( 0.3, fract( h.x * 6.0 ) ) * step( fract( h.x * 6.0 ), 0.8 ) ); } }
+    else if ( kind < 3.5 ) { float col = fract( h.x * 7.0 ); vec2 cell = vec2( floor( h.x * 7.0 ), floor( h.y * 2.0 ) ); vec3 g = vec3( rh( cell + seed ), rh( cell + seed + 5.0 ), rh( cell + seed + 9.0 ) ); c = ( h.y > 0.3 && h.y < 0.85 && col > 0.15 && col < 0.85 ) ? g * 0.75 + 0.15 : wall; if ( abs( h.y - 0.86 ) < 0.012 ) c = vec3( 0.6 ); }
+    else if ( kind < 4.5 ) { c = h.y < 0.45 ? vec3( 0.38, 0.26, 0.17 ) * ( 0.85 + 0.15 * step( 0.5, fract( h.x * 5.0 ) ) ) : wall; if ( h.y > 0.55 && h.y < 0.8 && fract( h.x * 2.0 ) > 0.2 && fract( h.x * 2.0 ) < 0.8 ) c = vec3( 0.55, 0.6, 0.62 ); }
+    else { c = h.y < 0.4 ? vec3( 0.75, 0.12, 0.12 ) : ( h.y < 0.44 ? vec3( 0.85 ) : wall ); if ( h.y > 0.6 && h.y < 0.75 ) c = vec3( 0.85, 0.85, 0.8 ); }
+  } else if ( t == ty ) {
+    if ( d.y < 0.0 ) { c = floorC * ( 0.85 + 0.15 * step( 0.5, fract( h.x * 4.0 + floor( h.z * 4.0 ) * 0.5 ) ) ); if ( kind > 1.5 && kind < 2.5 ) { vec2 q = fract( vec2( h.x * 2.0, h.z * 2.5 ) ) - 0.5; c = mix( c, vec3( 0.2, 0.14, 0.1 ), step( length( q ), 0.22 ) ); } }
+    else { c = ceilC; float lp = step( 0.85, fract( h.x * 2.0 + 0.4 ) ) * step( 0.3, fract( h.z * 1.5 ) ); c = mix( c, vec3( 1.6, 1.5, 1.3 ), lp ); }
+  } else { c = wall * 0.82; if ( kind > 0.5 && kind < 1.5 ) { float f = fract( h.y * 4.0 ); vec2 cell = vec2( floor( h.z * 6.0 ), floor( h.y * 4.0 ) ); c = f < 0.08 ? vec3( 0.25, 0.2, 0.16 ) : mix( vec3( rh( cell + seed + 2.0 ), rh( cell + seed + 4.0 ), rh( cell + seed + 6.0 ) ) * 0.8 + 0.1, c, 0.35 ); } }
+  return c * mix( 1.0, 0.55, h.z / depth );
+}
+`)
+      .replace('#include <emissivemap_fragment>', `#include <emissivemap_fragment>
+  { float kind = floor( vRoom ), lit = fract( vRoom ); vec3 V = normalize( -vViewPosition );   // eye -> fragment
+    vec3 dpx = dFdx( -vViewPosition ), dpy = dFdy( -vViewPosition ); vec3 Ng = normalize( cross( dpx, dpy ) ); if ( dot( Ng, vViewPosition ) < 0.0 ) Ng = -Ng;
+    vec3 room = roomColor( vMapUv, V, Ng, dpx, dpy, dFdx( vMapUv ), dFdy( vMapUv ), vColor.rgb, kind, floor( vRoomW.x * 0.3 ) + floor( vRoomW.z * 0.3 ) * 7.0 );
+    float day = 1.0 - uNight;
+    totalEmissiveRadiance += room * ( day * ( 0.42 + 0.3 * lit ) + uNight * ( 0.3 + 1.0 * lit ) * vec3( 1.0, 0.84, 0.62 ) ); }
+`)
+      .replace('#include <color_fragment>', '#include <color_fragment>\n  diffuseColor.rgb = vec3( 0.02, 0.025, 0.03 );\n');
+  };
+  shopGlass.customProgramCacheKey = () => 'house:shopGlass';
+  mat.shopGlass = () => shopGlass;
+
+  // ---------- brick (canvas): running bond, color variation per brick, mortar recess as bump ----------
+  const brickTex = kit.canvasTex(512, 512, (g, w, h) => {
+    const r = kit.rng(41); g.fillStyle = '#b8b0a2'; g.fillRect(0, 0, w, h); const bh = 32, bw = 96;
+    for (let y = 0; y < h; y += bh) for (let x = -bw; x < w; x += bw) { const o = (y / bh) % 2 ? bw / 2 : 0, v = 0.78 + r() * 0.3, t = r(); g.fillStyle = `rgb(${(214 * v) | 0},${(196 * v * (0.95 + t * 0.08)) | 0},${(182 * v * (0.9 + t * 0.1)) | 0})`; g.fillRect(x + o + 3, y + 3, bw - 6, bh - 6);
+      for (let k = 0; k < 14; k++) { g.fillStyle = `rgba(0,0,0,${r() * 0.12})`; g.fillRect(x + o + 3 + r() * (bw - 8), y + 3 + r() * (bh - 8), 2 + r() * 4, 1 + r() * 2); } }
+  });
+  const brickBump = kit.canvasTex(512, 512, (g, w, h) => { g.fillStyle = '#202020'; g.fillRect(0, 0, w, h); g.fillStyle = '#e0e0e0'; const bh = 32, bw = 96; for (let y = 0; y < h; y += bh) for (let x = -bw; x < w; x += bw) { const o = (y / bh) % 2 ? bw / 2 : 0; g.fillRect(x + o + 4, y + 4, bw - 8, bh - 8); } }, { srgb: false });
+  mat.brick = () => kit.materials.get('house:brick') || (() => { const m = new THREE.MeshStandardMaterial({ map: brickTex, bumpMap: brickBump, bumpScale: 2.2, roughness: 0.88, vertexColors: true }); m.name = 'house:brick'; m.userData.uvScale = 1.6; kit.materials.set(m.name, m); return m; })();
   return kit;
 }

diff --git a/src/world/setpieces/towns/towns.v2.js b/src/world/setpieces/towns/towns.v2.js
@@ -18,7 +18,9 @@ export async function initV2(game) {
   const hk = game.houses?.kit, D = game.miamiData, city = game.city; if (!hk || !D?.roadGraph) return;
   let layout = null; try { layout = await (await fetch((import.meta.env?.BASE_URL ?? '/') + 'assets/world/layout.json', { cache: 'no-cache' })).json(); } catch (e) { /* */ }
   const list = [];
-  for (const t of TOWNS) { const p = layout?.places?.find((q) => q.name === t.name); if (!p) continue; const T = { ...t, x: p.x, z: p.z, r: p.r, R: Math.min(330, Math.max(180, p.r * 0.4)), planned: false, state: 'idle' }; list.push(T); lots.towns.push(T); }
+  // every fictional-land town on the map (the main street is found on whatever grid the map-roads track has built)
+  const towns = (layout?.places || []).filter((q) => q.kind === 'town' && !/Outskirts/.test(q.name) && !(layout.realRect && q.x > layout.realRect.minX && q.x < layout.realRect.maxX && q.z > layout.realRect.minZ && q.z < layout.realRect.maxZ)).map((q) => ({ name: q.name, short: q.name.split(' ').filter((w) => w.length > 3).pop() || q.name }));
+  for (const t of towns.length ? towns : TOWNS) { const p = layout?.places?.find((q) => q.name === t.name); if (!p) continue; const T = { ...t, x: p.x, z: p.z, r: p.r, R: Math.min(330, Math.max(180, p.r * 0.4)), planned: false, state: 'idle' }; list.push(T); lots.towns.push(T); }
   if (!list.length) return;
   const root = new THREE.Group(); root.name = 'towns'; game.scene.add(root);
   const stats = {};
